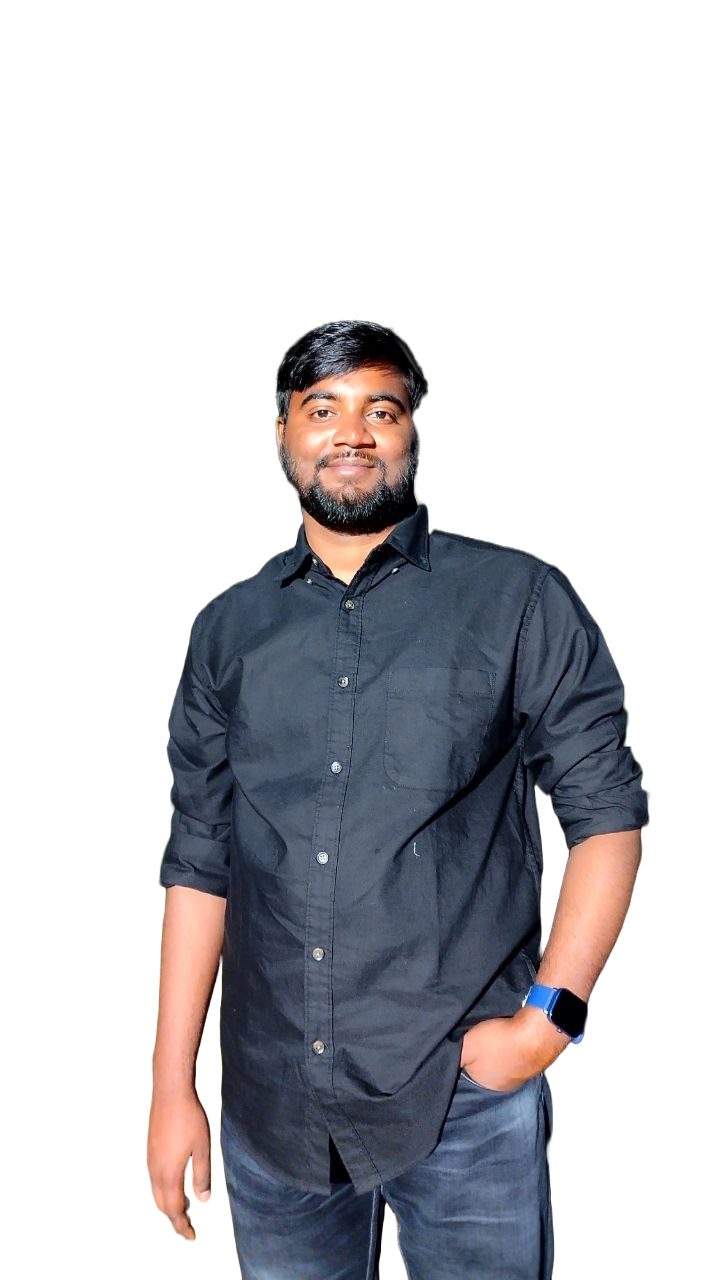
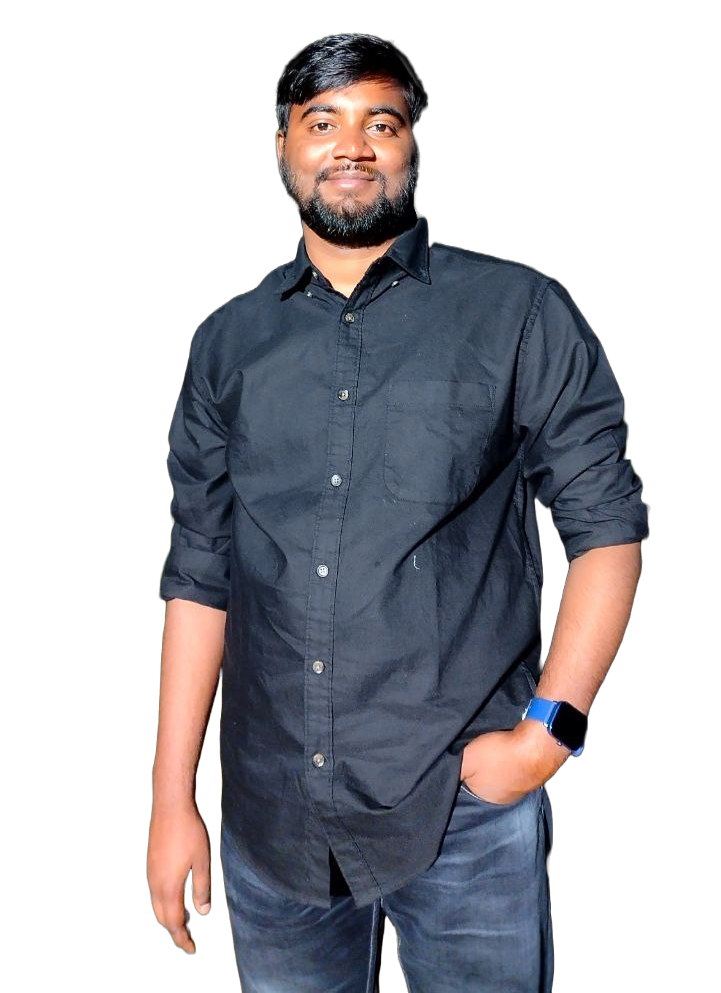
UI Fixes

Changed region(s): [[0.1831, 0.0312, 0.9154, 0.999]]

diff --git a/src/components/intro.js b/src/components/intro.js
@@ -3,15 +3,15 @@ import image from '../assets/Image.png'
 
 const Intro = () => {
   return (
-    <section id='intro' className='relative flex items-center justify-between h-[100dvh] gap-5 mobile:justify-center mobile:h-[auto] mobile:mt-14 mobile:mb-[14rem]'>
-        <div className='introContent z-10 mobile:relative mobile:top-9'>
+    <section id='intro' className='relative flex items-center justify-between h-[100dvh] gap-5 mobile:justify-center mobile:h-[auto]'>
+        <div className='introContent z-10 mobile:absolute mobile:bottom-[10%]'>
             <span className='text-[25px] mobile:text-[20px]'>Hello,</span><br/>
             <span className='text-[3.5rem] font-semibold mobile:text-[30px]'>I'm <span className='text-[red]'> Yash</span><br/>Frontend Developer</span>
             <p className="text-[14px] max-w-[50%] mobile:max-w-[100%]  mobile:text-[10px]">Experienced frontend developer with a keen interest in problem-solving and a solid foundation in Data Structures and Algorithms (DSA). Skilled in developing responsive and intuitive user interfaces using HTML, CSS, JavaScript, and ReactJS. Passionate about building applications that leave a positive impact on users' lives. Always eager to learn and explore new technologies.</p>
             {/* <button><img src={} /></button> */}
         </div>
-        <div className='absolute right-0 z-[-1]'>
-            <img className='h-[65rem] mobile:h-[auto]' src={image} alt='myPhoto' />    
+        <div className='absolute right-0 z-[-1] mobile:relative'>
+            <img className='h-[65rem] mobile:h-[fit-content]' src={image} alt='myPhoto' />    
         </div>
     </section>
   )

diff --git a/src/components/skills.js b/src/components/skills.js
@@ -7,7 +7,7 @@ import react from '../assets/react.png';
 
 const Skills = () => {
   return (
-    <div>
+    <div className='mobile:mt-1'>
       <p className='text-3xl'>My Skills</p>
       <div className='flex flex-wrap gap-2 items-center'>
         <img src={html5} className='w-[8rem] h-[8rem] mobile:w-[4rem] mobile:h-[4rem]' alt='html5' />
